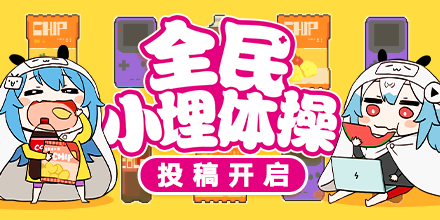
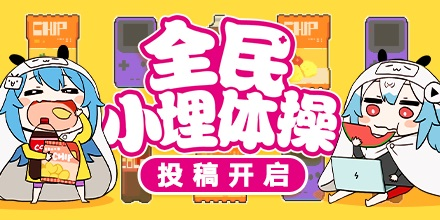
轮播图完成

diff --git a/q6(vue-webpack)/src/views/index.vue b/q6(vue-webpack)/src/views/index.vue
@@ -1,19 +1,7 @@
 <template>
     <div class="body_index">
         <div class="carousel">
-            <transition-group class="carousel_back" tag="div"
-                @before-enter="beforeEnter"
-                @after-enter="afterEnter"
-                @before-leave="beforeLeave"
-                @leave="leave"
-                >
-                <div v-for="(menu, index) in carousel_data.menu"
-                    :class="'carousel_back_' + index"
-                    v-if="carousel_data.mark == index"
-                    :key="index"
-                    >
-                </div>
-            </transition-group>
+            <div class="carousel_back" :style="carousel_data.style"></div>
             <div class="carousel_more">
                 <div class="carousel_more_back"></div>
                 <div class="carousel_more_word">更多</div>
@@ -53,6 +41,7 @@
 <script>
 let carousel_data = {
     mark: 0,
+    style: '',
     menu: [
         { title: '周五！' },
         { title: '恰逢诗意少年' },
@@ -63,7 +52,6 @@ let carousel_data = {
 }
 
 let beginCarousel;
-let carousel_direction = 1;
 
 let position_menu = [
     { name: '直播' },
@@ -120,7 +108,6 @@ export default {
             position_menu: position_menu,
             carousel_data: carousel_data,
             style_suoyin: '',
-            transitionName: 'carousel',
         }
     },
     methods: {
@@ -158,43 +145,21 @@ export default {
             }
         },
         toTop,
+        restCarousel () {
+            let s = `-${carousel_data.mark * 440}px`;
+            carousel_data.style = { 'background-position-x': s };
+        },
         changeMark (index) {
-            if (index > carousel_data.mark) {
-                carousel_direction = 1;
-            }else {
-                carousel_direction = 0;
-            }
             carousel_data.mark = index;
+            this.restCarousel();
             this.autoCarousel();
         },
         autoCarousel () {
             clearInterval(beginCarousel);
             beginCarousel = setInterval(() => {
-                carousel_direction = 1;
                 carousel_data.mark = (carousel_data.mark + 1) % 5;
+                this.restCarousel();
             }, 5000);
-        },
-        beforeEnter(el) {
-            if (carousel_direction) {
-                el.style.transform = 'translateX(100%)';
-            }else {
-                el.style.transform = 'translateX(-100%)';
-            }
-        },
-        afterEnter(el) {
-            el.style.transition = 'all 0.2s linear';
-            el.style.transform = 'translateX(0)';
-        },
-        beforeLeave(el) {
-            el.style.transform = 'translateX(0)';
-        },
-        leave(el) {
-            el.style.transition = 'all 0.2s linear';
-            if (carousel_direction) {
-                el.style.transform = 'translateX(-100%)';
-            }else {
-                el.style.transform = 'translateX(100%)';
-            }
         },
     },
     mounted() {

diff --git a/q6(vue-webpack)/src/assets/less/body.less b/q6(vue-webpack)/src/assets/less/body.less
@@ -128,27 +128,8 @@
     position: absolute;
     width: 100%;
     height: 100%;
-    div {
-        position: absolute;
-        display: inline-block;
-        width: 100%;
-        height: 100%;
-    }
-    &_0 {
-        background: @carousel0_image_path;
-    }
-    &_1 {
-        background: @carousel1_image_path;
-    }
-    &_2 {
-        background: @carousel2_image_path;
-    }
-    &_3 {
-        background: @carousel3_image_path;
-    }
-    &_4 {
-        background: @carousel4_image_path;
-    }
+    background: @carousel_image_path 0 0 no-repeat;
+    transition: all 0.2s;
     &:hover {
         cursor: pointer;
         + .carousel_more {
@@ -178,11 +159,13 @@
         background: @icons_image_path -505px -211px;
         font-size: 12px;
         color: white;
-        text-shadow: 0px 0px 4px white;
         padding-left: 8px;
         padding-right: 16px;
         padding-top: 4px;
         padding-bottom: 4px;
+        &:hover {
+            text-shadow: 0px 0px 4px white;
+        }
     }
     &:hover {
         cursor: pointer;

diff --git a/q6(vue-webpack)/src/assets/less/values.less b/q6(vue-webpack)/src/assets/less/values.less
@@ -11,11 +11,7 @@
 @logo_image_path: url(../imgs/header/logo.png);
 @userPortrait_image_path: url(../imgs/header/alun.png);
 @specialGif_image_path: url(../imgs/icon/special.gif);
-@carousel0_image_path: url(../imgs/carousel/carousel0.jpg);
-@carousel1_image_path: url(../imgs/carousel/carousel1.jpg);
-@carousel2_image_path: url(../imgs/carousel/carousel2.jpg);
-@carousel3_image_path: url(../imgs/carousel/carousel3.jpg);
-@carousel4_image_path: url(../imgs/carousel/carousel4.jpg);
+@carousel_image_path: url(../imgs/carousel/carousel.jpg);
 //单个菜单栏宽度
 @back_width: 980px;
 @back_change_width: 1160px;
